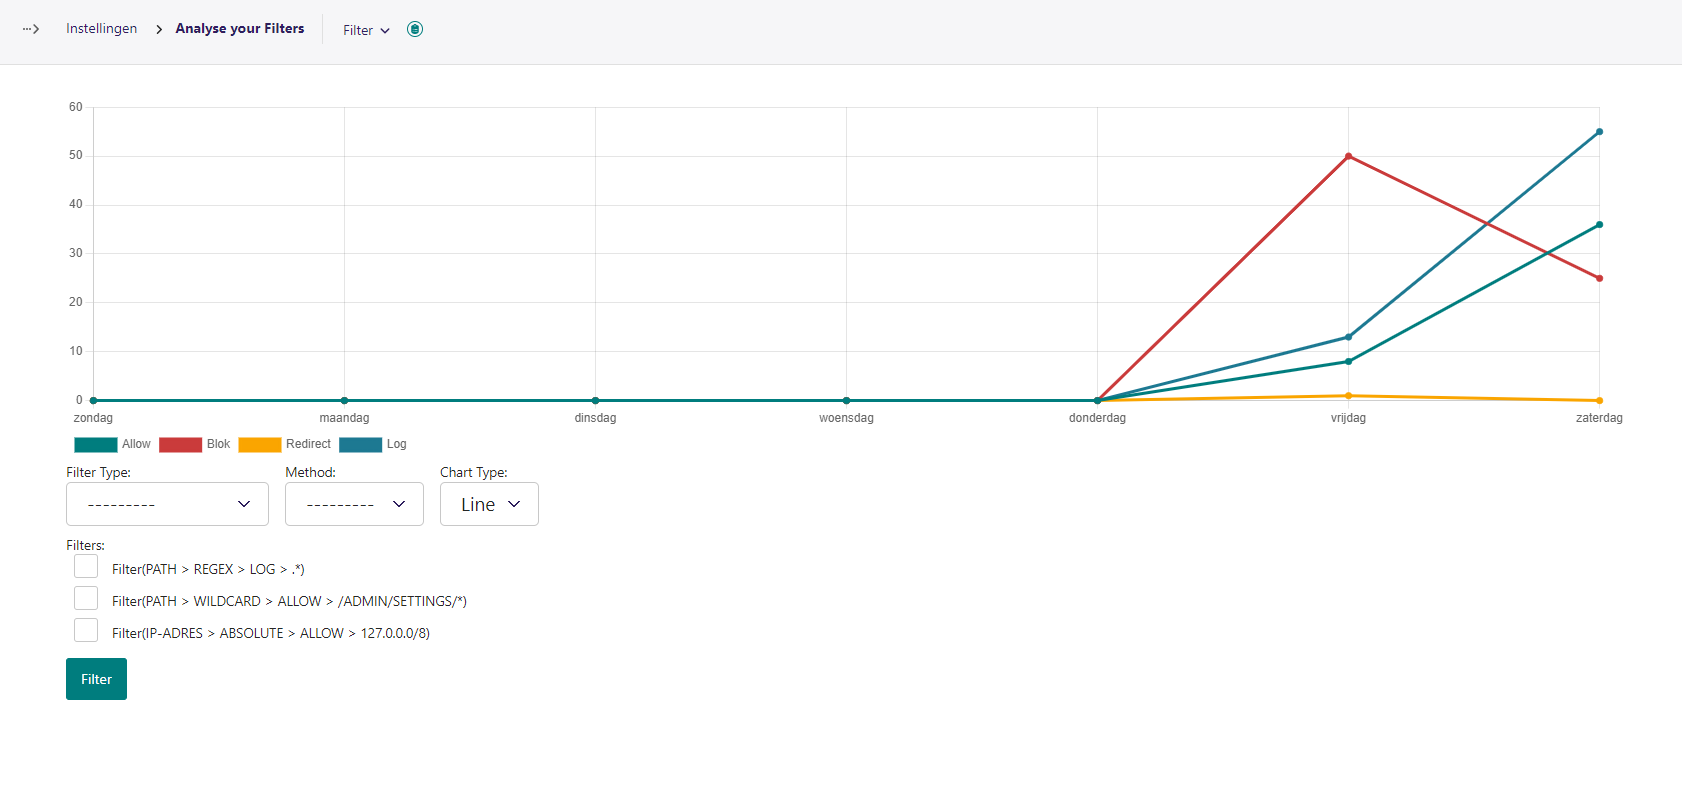
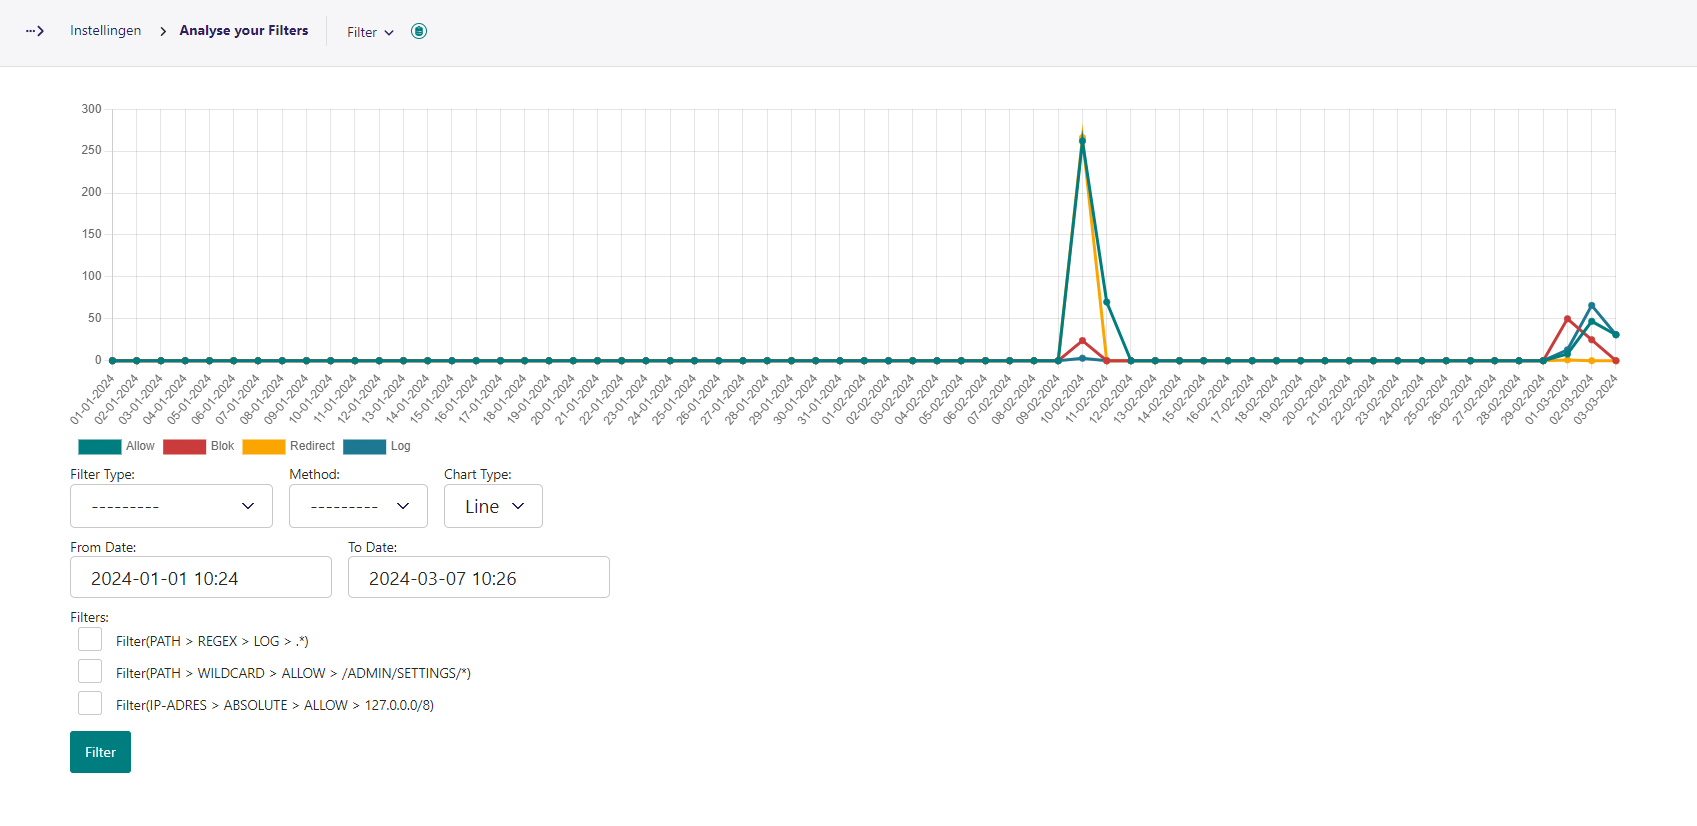
Added header filter

diff --git a/request_filters/checks.py b/request_filters/checks.py
@@ -29,6 +29,7 @@ class FilterChoices(models.TextChoices):
     REFERER         = "REFERER",        _("Referer")
     COUNTRY         = "COUNTRY",        _("Country")
     METHOD          = "METHOD",         _("Method")
+    HEADER          = "HEADER",         _("Header")
 
 class FilterMethodChoices(models.TextChoices):
     ABSOLUTE = "ABSOLUTE",  _("Absolute")
@@ -78,6 +79,9 @@ def ABSOLUTE_FILTER_CHECK_COUNTRY(filter: "Filter", settings: "FilterSettings", 
     name = country.get("country_name", "")
 
     return filter.filter_value in (code, name)
+
+def ABSOLUTE_FILTER_CHECK_HEADER(filter: "Filter", settings: "FilterSettings", request: HttpRequest):
+    return filter.action_value == request.META.get(filter.filter_value, "")
 
 def ABSOLUTE_FILTER_CHECK_METHOD(filter: "Filter", settings: "FilterSettings", request: HttpRequest):
     return filter.filter_value == request.method
@@ -137,6 +141,9 @@ def CHECK_GET_QUERY_STRING(filter: "Filter", settings: "FilterSettings", request
 
 def CHECK_GET_REFERER(filter: "Filter", settings: "FilterSettings", request: HttpRequest):
     return request.META.get("HTTP_REFERER", "")
+
+def CHECK_GET_HEADER(filter: "Filter", settings: "FilterSettings", request: HttpRequest):
+    return request.META.get(filter.action_value, "")
 
 def CHECK_GET_COUNTRY(filter: "Filter", settings: "FilterSettings", request: HttpRequest):
     ip = get_ip_address(request)
@@ -213,6 +220,7 @@ FILTER_CHECKS_ABSOLUTE = {
     FilterChoices.REFERER:         ABSOLUTE_FILTER_CHECK_REFERER,
     FilterChoices.COUNTRY:         ABSOLUTE_FILTER_CHECK_COUNTRY,
     FilterChoices.METHOD:          ABSOLUTE_FILTER_CHECK_METHOD,
+    FilterChoices.HEADER:          ABSOLUTE_FILTER_CHECK_HEADER,
 }
 
 FILTER_CHECKS_RE = {
@@ -223,6 +231,7 @@ FILTER_CHECKS_RE = {
     FilterChoices.REFERER:         RE_MATCH_CHECK(CHECK_GET_REFERER),
     FilterChoices.COUNTRY:         RE_MATCH_CHECK(CHECK_GET_COUNTRY),
     FilterChoices.METHOD:          RE_MATCH_CHECK(CHECK_GET_METHOD),
+    FilterChoices.HEADER:          RE_MATCH_CHECK(CHECK_GET_HEADER),
 }
 
 
@@ -234,6 +243,7 @@ FILTER_CHECKS_WC = {
     FilterChoices.REFERER:         WC_MATCH_CHECK(CHECK_GET_REFERER),
     FilterChoices.COUNTRY:         WC_MATCH_CHECK(CHECK_GET_COUNTRY),
     FilterChoices.METHOD:          WC_MATCH_CHECK(CHECK_GET_METHOD),
+    FilterChoices.HEADER:          WC_MATCH_CHECK(CHECK_GET_HEADER),
 }
 
 FILTER_CHECKS_IN = {
@@ -244,6 +254,7 @@ FILTER_CHECKS_IN = {
     FilterChoices.REFERER:         IN_MATCH_CHECK(CHECK_GET_REFERER, split_by = None),
     FilterChoices.COUNTRY:         IN_FILTER_CHECK_COUNTRY,
     FilterChoices.METHOD:          IN_MATCH_CHECK(CHECK_GET_METHOD, _p_upper, split_by = " "),
+    FilterChoices.HEADER:          IN_MATCH_CHECK(CHECK_GET_HEADER, split_by = None),
 }
 
 FILTER_CHECKS = {

diff --git a/request_filters/migrations/0006_alter_filteredrequest_options.py b/request_filters/migrations/0006_alter_filteredrequest_options.py
@@ -1,0 +1,17 @@
+# Generated by Django 5.0.1 on 2024-03-03 09:00
+
+from django.db import migrations
+
+
+class Migration(migrations.Migration):
+
+    dependencies = [
+        ('request_filters', '0005_alter_filteredrequest_options_and_more'),
+    ]
+
+    operations = [
+        migrations.AlterModelOptions(
+            name='filteredrequest',
+            options={'ordering': ['-created_at__date', '-created_at__time__hour', '-created_at__time__minute', '-created_at__time__second', 'filter_index'], 'permissions': (('see_chart', 'View Chart'),), 'verbose_name': 'Filtered Request', 'verbose_name_plural': 'Filtered Requests'},
+        ),
+    ]

diff --git a/request_filters/wagtail_hooks.py b/request_filters/wagtail_hooks.py
@@ -1,4 +1,3 @@
-from pydoc import classname
 from typing import Any
 from django import forms
 from django.db import models
@@ -392,6 +391,9 @@ class FilteredRequestChartView(WagtailAdminTemplateMixin, TemplateView):
         from_date = getattr(dj_filter.form, "cleaned_data", {}).get("from_date")
 
         if from_date and not to_date:
+            to_date = timezone.now()
+
+        if to_date and to_date > timezone.now():
             to_date = timezone.now()
 
         if from_date and to_date:

diff --git a/request_filters/__init__.py b/request_filters/__init__.py
@@ -14,7 +14,7 @@ log.WARN = _logging.WARN
 log.ERROR = _logging.ERROR
 log.CRITICAL = _logging.CRITICAL
 
-__version__ = '1.4.4'
+__version__ = '1.4.5'
 VERSION = tuple(__version__.split("."))
 
 

diff --git a/README.md b/README.md
@@ -14,6 +14,7 @@ Only for use in wagtail projects - might support django-only in the future.
 * REFERER
 * COUNTRY
 * METHOD
+* HEADER
 
 ## Matching based on:
 
@@ -42,8 +43,8 @@ Has a a view to easy analyse the behaviour of filters overall in a chart.
 
    ```
    MIDDLEWARE = [
-   ...,
-   'request_filters.middleware.RequestFilterMiddleware',
+   	'request_filters.middleware.RequestFilterMiddleware',
+   	...,
    ]
    ```
 3. See the [options](#Options) section for more information on how to configure the app.
